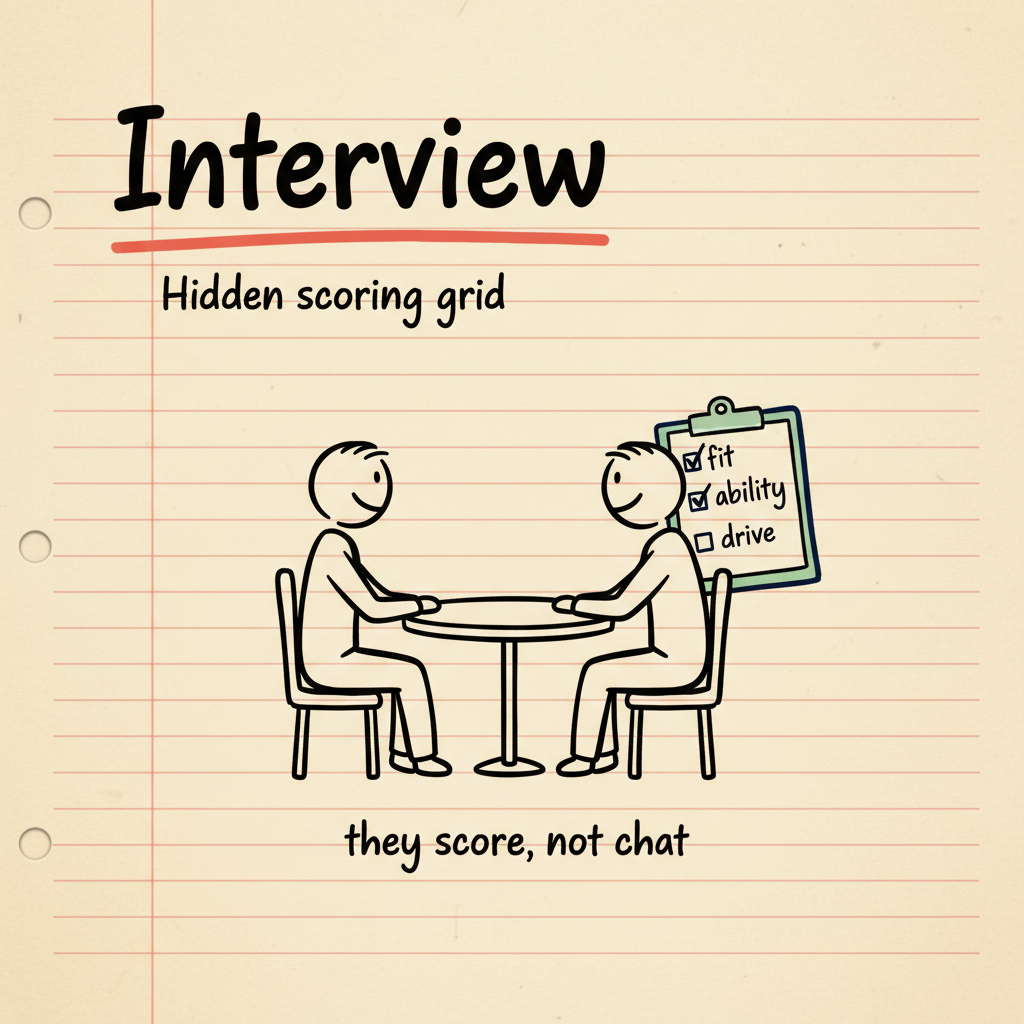
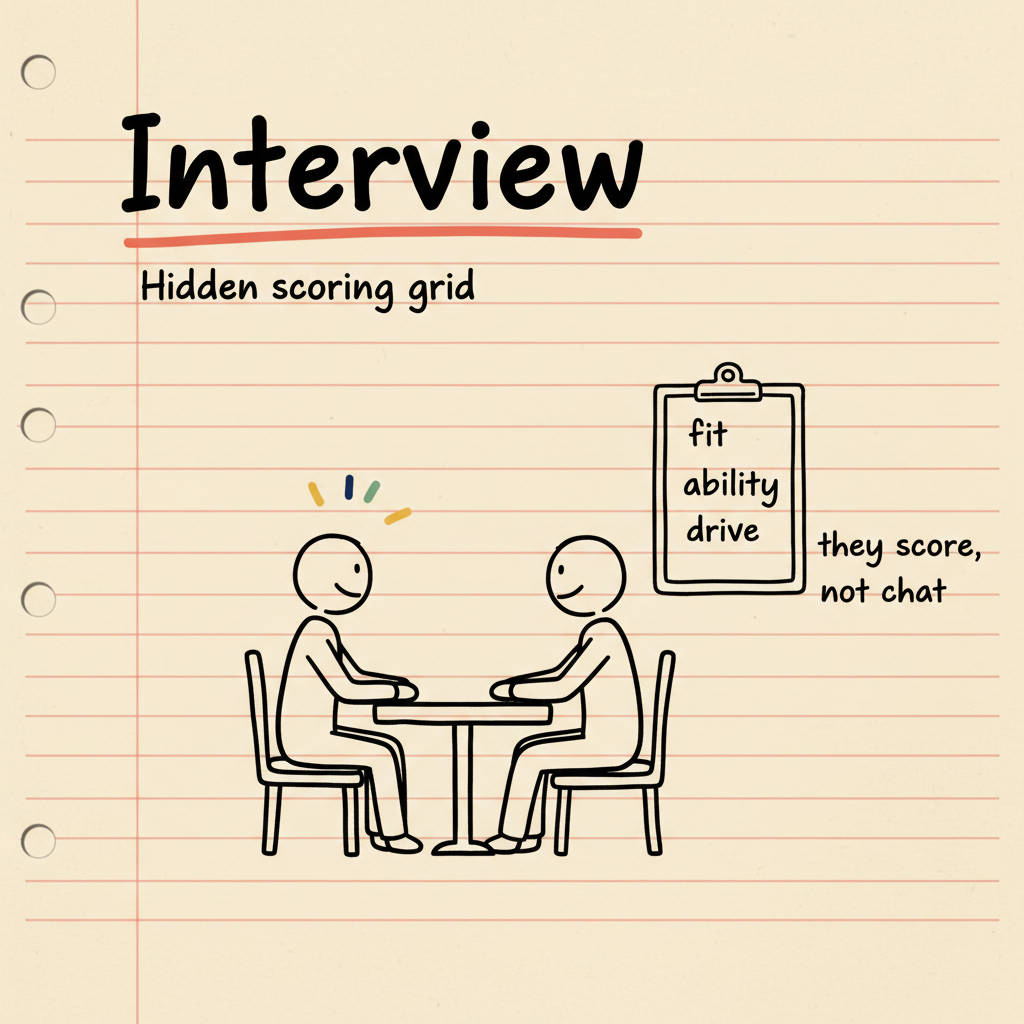
fix(thumbnails): スペル崩し致命 5 枚を再生成
docs/THUMBNAIL_AUDIT.md で高優先と判定された致命的スペル崩しを修正。

- lesson-41: atack person → attack the person (論理的誤謬の典型例)
- lesson-600: recuriters → How HR scans a resume (短縮で安定化)
- lesson-701: meanngful → smart sets (短縮で安定化)
- lesson-736: SPIN funnel の S 抜け解消、SPIN を 1 単語として横書き
- lesson-630: clipboard の fit/ability/drive ラベル崩れ修正 (checkbox 廃止して plain word のみ)

ACRONYM_WHITELIST に SPIN/BANT/HR を追加。各 prompt で CRITICAL 指示と
spell 配列を強化し Gemini Nano Banana 出力を安定化。

diff --git a/src/listeningLessons.ts b/src/listeningLessons.ts
@@ -39,7 +39,6 @@ const whatIsListening: LessonData = {
       title: '「聴く」は受信ではなく構造化',
       content:
         '「聴く」を辞書的に定義すると「相手の発言を理解する」ですが、ビジネスの現場では一段踏み込む必要があります。\n\n**聴く = 相手の発言を意味のある単位に再構成すること**\n\nこの定義の重要ポイントは「再構成」です。相手の話は、感情・事実・憶測・希望・愚痴がランダムに混ざって出てきます。それをそのまま受け取っても、意思決定の役には立ちません。\n\n再構成の作業：\n1. 何が起きたか（事実）\n2. それをどう感じているか（感情）\n3. その出来事をどう意味づけているか（解釈）\n4. 本人は何を望んでいるか（要望・希望）\n\nこの 4 つに分けて整理することで、「相手が本当に困っていること」が見えてきます。\n\n誤解しやすい点：\n• ❌ 構造化リスニング = 冷たく機械的に聞く\n• ◯ 構造化リスニング = 相手を本当に理解するための聴き方\n\nむしろ受動的傾聴より深く相手を受け止めます。「分かってもらえた」という感覚は、相手が自分でも整理できていなかった話を、聴き手が構造的に返してくれたときに最も強く生まれます。',
-      visual: 'ThreePillarsDiagram',
     },
     {
       type: 'quiz',
@@ -58,7 +57,6 @@ const whatIsListening: LessonData = {
       title: 'なぜマネージャー・営業に必須か',
       content:
         '構造化リスニングは、特に次の 3 つの職種で成果に直結します。\n\n【1】マネージャー（1on1・面談）\n部下の「辞めたい」「評価が不満」「キャリアに悩んでいる」といった発言を、表面の言葉だけで受け取ると対処を誤ります。事実・感情・解釈に分解できれば、本当に介入すべきポイントが見えます。\n\n例：部下「もう辞めたいです」\n• 表面：退職希望\n• 解釈：「この職場では成長できない」と感じている\n• 真の要望：成長機会の提示（必ずしも退職したいわけではない）\n\n【2】営業（顧客ヒアリング）\n顧客の「価格が高い」「検討します」を額面通り受け取ると失注します。背景にある不安・優先順位・社内政治を引き出せて初めて提案が刺さります。\n\n例：顧客「価格が他社より高いんですよね」\n• 表面：価格不満\n• 解釈：「上司を説得する材料が足りない」\n• 真の要望：投資対効果を社内で説明できる資料\n\n【3】コンサル・支援職（クライアントワーク）\nクライアントの依頼を言葉通り実装すると「思っていたのと違う」になります。依頼の裏にある制約・組織事情を聴き取る力が、納品物の質を決めます。\n\n3 職種に共通するのは「相手の言葉と本音にギャップがある場面が日常」ということ。構造化リスニングは、このギャップを技術で埋める方法論です。',
-      visual: 'WhereWhyHowDiagram',
     },
     {
       type: 'quiz',
@@ -87,7 +85,6 @@ const factEmotionInterpretation: LessonData = {
       title: '相手の発言は 3 層に混ざっている',
       content:
         '構造化リスニングの中核技術が **3 層分解** です。相手の発言は次の 3 つが混ざって出てきます。\n\n【1】事実（Fact）\n客観的に起きたこと。第三者でも同じように観測できる出来事。\n例：「先週の会議でAさんに自分の提案を否定された」\n\n【2】感情（Emotion）\n本人の中に湧き起こった気持ち。本人にしか分からない内面。\n例：「悔しかった」「悲しかった」「腹が立った」\n\n【3】解釈（Interpretation）\n出来事に対して本人がつけた意味づけ。「なぜそうなったか」の推測。\n例：「Aさんは私を軽く見ている」「自分は評価されていない」\n\n問題は、これらが日常会話では **ごちゃ混ぜで一気に出てくる** ことです。\n\n部下「先週、A さんに提案を否定されて、ほんと悔しかったんですよ。あの人、僕のこと軽く見てるんですよね」\n→ 事実（提案否定）＋ 感情（悔しい）＋ 解釈（軽く見られている）が一文に同居\n\n聴き手が分解せずに反応すると、解釈（軽く見られている）に対して「そんなことないよ」と否定してしまい、相手は「分かってもらえない」と感じます。\n\n分解できれば「事実は受け止め、感情に共感し、解釈は検証する」という適切な対応が選べます。',
-      visual: 'ThreePillarsDiagram',
     },
     {
       type: 'quiz',
@@ -106,7 +103,6 @@ const factEmotionInterpretation: LessonData = {
       title: '分解の手順 — メモを書き分ける',
       content:
         '会話の中で 3 層分解をリアルタイムにやるには訓練が必要です。慣れるまでは、メモを 3 列に分けるのが効果的です。\n\n【手順】\n1. ノートを縦に 3 分割し「事実 / 感情 / 解釈」と見出しを書く\n2. 相手の発言を聴きながら、該当する列にキーワードだけ書く\n3. 一通り聴き終わったら、各列を眺めて全体像を把握する\n\n例：1on1 で部下が話したこと\n\n事実：\n• 先月の評価が B だった\n• 同期の C さんは A だった\n• 自分は残業も多かった\n\n感情：\n• 悔しい\n• 不公平に感じる\n• モチベーション低下\n\n解釈：\n• 上司は自分を見ていない\n• 評価制度がおかしい\n• 自分はこの会社では伸びない\n\n分解後の気づき：\n• 事実は 3 つしかない（しかも全部本人視点）\n• 感情は十分に強い\n• 解釈が事実に対して飛躍している（評価 1 回で「この会社では伸びない」は飛躍）\n\nここまで見えれば、「事実を増やす（評価基準を確認）」「解釈を検証する（本当に見られていない？）」など具体的な対応が選べます。',
-      visual: 'AbstractionLadderDiagram',
     },
     {
       type: 'quiz',
@@ -125,7 +121,6 @@ const factEmotionInterpretation: LessonData = {
       title: '対応の使い分け — 各層に何を返すか',
       content:
         '分解できたら、層ごとに **返し方を変える** のが構造化リスニングの真価です。\n\n【事実】には → 確認と受け止め\n• 「先月の評価は B だったんですね」\n• 「同期は A だったと」\n→ 事実を復唱して、認識の食い違いを潰す\n→ 否定も同意もしない、ただ受け止める\n\n【感情】には → 共感と受容\n• 「それは悔しいですよね」\n• 「不公平に感じるのは自然な反応だと思います」\n→ 感情には反論しない、評価もしない\n→ 「感じてもいい」と認める\n\n【解釈】には → 検証と問い直し\n• 「『上司は自分を見ていない』というのは、何から感じましたか？」\n• 「『この会社では伸びない』と感じたのは、他にも根拠がありますか？」\n→ 否定せず、根拠を一緒に確認する\n→ 解釈は飛躍しがちなので、最も慎重に扱う\n\n**よくある失敗：3 層を取り違えた対応**\n\n❌ 事実に共感する：「B 評価は本当につらいですよね」\n→ 事実そのものを否定的に強化してしまう\n\n❌ 感情を検証する：「本当に悔しいんですか？」\n→ 感情を否定された、と感じさせる\n\n❌ 解釈に共感する：「そうそう、あの上司は見てないですよね」\n→ 飛躍した解釈を固定化させ、相手の認知を狭める\n\n層を見極めて、適切な返し方を選ぶ。これが構造化リスニングのコア技術です。',
-      visual: 'Two2MatrixDiagram',
     },
     {
       type: 'quiz',
@@ -154,7 +149,6 @@ const summaryAndParaphrase: LessonData = {
       title: '要約 = 「聴いた」の証明',
       content:
         '相手に「ちゃんと聴いてもらえた」と感じてもらう最強の技術が **要約** です。\n\n要約とは、相手の発言の要点を自分の言葉に圧縮して返すこと。「うなずく」「あいづちを打つ」は聴いているサインに過ぎませんが、要約は「実際に理解した内容」を提示します。これが信頼の決定打になります。\n\n要約の構造：\n「つまり、◯◯ということで合っていますか？」\n\n要約に入れる要素（優先順位順）：\n1. 中心的な事実（一番大事な出来事）\n2. その人の感情（強い気持ち）\n3. 本人の解釈や懸念（飛躍があれば慎重に）\n\n例：\n部下が 5 分間話した内容\n→「先月の評価が B で、同期の A と差がついて、自分の頑張りが見られていないと感じている。これからの成長機会も不安に思っている、ということで合っていますか？」\n\nこの一文を返すだけで、相手は次の 3 つを同時に感じます：\n• 自分の話を整理してもらえた（認知の負荷が下がる）\n• 聴き手が本気で理解しようとしている（信頼）\n• 言いたかったことが言語化された（カタルシス）\n\n要約の精度が高いほど、相手は本音を話してくれます。「ここまで分かってくれているなら、もっと話していい」と感じるからです。',
-      visual: 'PyramidDiagram',
     },
     {
       type: 'quiz',
@@ -192,7 +186,6 @@ const summaryAndParaphrase: LessonData = {
       title: '誤要約は信頼を失う — 3 つの落とし穴',
       content:
         '要約・パラフレーズは強力ですが、ミスると一気に信頼を失います。よくある失敗パターン 3 つを押さえます。\n\n【落とし穴 1】要約に自分の評価を混ぜる\n相手「最近、子育てと仕事の両立がきつくて」\n❌「つまり、もう少し計画的に動けばよかったということですね」\n→ アドバイスや評価が要約に紛れ込んでいる\n◯「子育てと仕事の両立で、余裕がない状態が続いている、ということですね」\n→ 評価を入れず事実と感情だけ要約\n\n【落とし穴 2】要約で話の方向を誘導する\n相手「新しい部署、人間関係に不安があって」\n❌「つまり、転職を考えているということですね」\n→ 聴き手が結論を勝手に飛躍\n◯「異動後の人間関係に不安を感じている、と」\n→ 相手が話したところまでで止める\n\n【落とし穴 3】「分かる分かる」で要約代わりにする\n❌「分かります、分かります、本当大変ですよね」\n→ 一見共感的だが、何が分かったのか不明\n→ 相手は「実は何も理解してない」と気づく\n◯「営業数字のプレッシャーと、チームへの責任の二重圧で消耗している、ということですね」\n→ 具体的に何を理解したかを示す\n\n要約・パラフレーズが効くのは「あなたの話を、私はこう理解しました」と **検証可能な形で提示する** からです。曖昧な共感や自分の意見の混入はすべて NG です。\n\n上手くなるコツ：\n• 要約は相手の言葉の 30% 以下に圧縮する\n• 「ということで合っていますか？」を必ず付ける\n• 間違っていたら訂正してもらう（むしろ訂正されるほうが理解が深まる）',
-      visual: 'GoodBadSlideDiagram',
     },
     {
       type: 'quiz',
@@ -259,7 +252,6 @@ const questionTypes: LessonData = {
       title: 'やってはいけない質問 — 4 つのアンチパターン',
       content:
         '質問は聴く力の主武器ですが、間違った質問は信頼を一発で壊します。アンチパターン 4 つを覚えましょう。\n\n【NG 1】尋問質問\n「いつ？」「誰が？」「で、どうしたの？」「それで？」\n→ 閉じた事実質問の連続。相手は問い詰められている感覚になる\n→ 改善：オープン質問を 1 つ挟む「そのとき、どう感じたか聞かせてもらえますか？」\n\n【NG 2】誘導質問\n「それって上司の問題ですよね？」「やっぱり辞めたほうがいいんじゃない？」\n→ 答えを誘導している。相手は本音を言いにくくなる\n→ 改善：「あなたから見て、原因はどこにありそうですか？」と中立に問う\n\n【NG 3】評価質問\n「なぜそんなことしたんですか？」「どうしてもっと早く言わなかったの？」\n→ 「なぜ」の使い方によっては責めに聞こえる\n→ 改善：「何があってそういう判断になったか、聞かせてもらえますか？」と背景を聴く形に\n\n【NG 4】二重質問\n「面談どうだった、あと、評価は出た？」\n→ 2 つ以上聞くと相手は答えやすい方だけ答え、もう片方が抜ける\n→ 改善：1 質問 1 トピックに分ける\n\n特に注意：「なぜ？」の使い方\n\n「なぜ？」は便利ですが、人に向けると **責めるニュアンス** を持ちます。\n• ❌「なぜそうしたんですか？」→ 詰問に聞こえる\n• ◯「何があってそうしようと思ったんですか？」→ 同じ意図だが柔らかい\n\nコンサルやマネージャーは「なぜ？」を物事の構造に向け、人の行動には「何があって？」を使う癖をつけると、相手が防衛的にならずに済みます。',
-      visual: 'GoodBadSlideDiagram',
     },
     {
       type: 'quiz',
@@ -288,7 +280,6 @@ const silenceDesign: LessonData = {
       title: '沈黙は「次の質問」の場所',
       content:
         '構造化リスニングの中級者と上級者を分けるのが **沈黙の扱い** です。\n\n会話で 3 秒以上の沈黙が生まれると、多くの人が居心地悪さを感じて次の質問や話題を投げてしまいます。これが致命的なミスです。\n\n沈黙が生まれているとき、相手の中では次のことが起きています：\n• 自分の感情を言語化しようとしている\n• 何を話していいか考えている\n• まだ整理できていない本音に近づいている\n• 過去の出来事を思い出している\n\nつまり **沈黙 = 思考が動いている時間** です。聴き手が口を挟むと、その思考は中断されます。\n\n沈黙を恐れる聴き手がやりがちな失敗：\n• 沈黙 2 秒で次の質問を畳みかける\n• 「あ、それで言うと…」と自分の話を始める\n• 「分かります、私も…」と共感の体で話題を奪う\n• 沈黙を埋めるためにアドバイスを始める\n\nどれも、相手の思考プロセスを潰します。\n\n基本ルール：**質問を投げた後、最低 5 秒は黙る**。\n\n5 秒は聴き手にとって長く感じますが、話し手にとっては「考える時間ができた」というありがたい時間です。沈黙が 10 秒、20 秒続いても焦らない。沈黙の後に出てくる言葉が、その会話で最も価値のある言葉になることが多いです。',
-      visual: 'FeedbackLoopDiagram',
     },
     {
       type: 'quiz',
@@ -307,7 +298,6 @@ const silenceDesign: LessonData = {
       title: '沈黙の 4 種類を見分ける',
       content:
         'すべての沈黙が同じではありません。4 種類を見分けると、適切に扱えます。\n\n【1】思考中の沈黙\n• サイン：視線が遠くを見ている、眉が寄っている、口が少し動いている\n• 中身：言葉を探している、感情を言語化しようとしている\n• 対応：**待つ**（5-30 秒）。割り込まない\n\n【2】感情処理の沈黙\n• サイン：目が潤む、視線が下を向く、肩が落ちる、深呼吸\n• 中身：強い感情が湧いている、涙をこらえている\n• 対応：**さらに長く待つ**。可能なら飲み物を勧める、視線を外す配慮も\n• NG：「大丈夫ですか？」と即座に声をかける → 感情処理を中断させる\n\n【3】回答拒否の沈黙\n• サイン：視線を逸らす、腕を組む、姿勢が後ろに引く\n• 中身：答えたくない、話したくない領域に踏み込まれた\n• 対応：質問を引く。「答えづらかったら大丈夫です」「別の話に移りますか」\n• 重要：その質問は **今は** 不適切だったというサイン\n\n【4】期待の沈黙\n• サイン：聴き手をじっと見ている、目を見開いて待っている\n• 中身：自分が話す番ではない、聴き手の反応を待っている\n• 対応：**こちらが話す番**。要約・パラフレーズ・次の質問を投げる\n\n4 種類のうち、1 / 2 を 3 / 4 と取り違えるのが最大のミスです。\n\nたとえば「思考中」を「回答拒否」と誤読して「答えづらかったら大丈夫です」と言うと、相手は「考えていただけなのに」と感じて思考が止まります。\n\n見分けは表情・姿勢・視線をよく観察すること。慣れるまでは「迷ったら待つ」が基本でよいです。沈黙を恐れない聴き手が、結局は一番深い話を引き出します。',
-      visual: 'Two2MatrixDiagram',
     },
     {
       type: 'quiz',
@@ -326,7 +316,6 @@ const silenceDesign: LessonData = {
       title: '沈黙を作る側 — 自分が話しすぎないコツ',
       content:
         '沈黙を扱う前に、そもそも **自分が話しすぎていないか** を点検する必要があります。\n\n良い 1on1 や顧客ヒアリングの話量比は **聴き手 30% / 話し手 70%** が目安です。聴き手が半分以上話していたら、もはやヒアリングではありません。\n\n自分が話しすぎる典型パターン：\n\n【1】共感の言い換えループ\n相手「最近きついんです」\n自分「そうですよね、最近きついですよね、本当に大変な時期ですよね…」\n→ 同じことを言い換えて時間を埋めている\n\n【2】先回りアドバイス\n相手「子育てと両立が…」\n自分「あ、それなら時短勤務の制度があって、◯◯さんも使っていて…」\n→ 相手がまだ話し切ってないのにアドバイス開始\n\n【3】自分の体験談に乗っ取られる\n相手「営業数字がきつくて」\n自分「分かります、僕も若い頃はそうで、ある日上司に言われたのが…」\n→ 5 分後、自分の話になっている\n\n【4】沈黙を埋めるための雑談\n沈黙が 5 秒生まれると「あ、そういえば天気が…」と話題転換\n→ 相手の思考時間を奪っている\n\n対策：\n• 質問を投げたら、心の中で「5 秒数える」\n• 相手の発言が終わったように見えても、「もう少し」と待つ\n• 自分の経験談は、聞かれてから話す\n• アドバイスは、相手が要望を出してから\n\n良い聴き手は「話す量より、待つ量のほうが多い」。沈黙をデザインできるかどうかが、聴く力の最終試験です。',
-      visual: 'AbstractionLadderDiagram',
     },
     {
       type: 'quiz',
@@ -355,7 +344,6 @@ const oneOnOneApplication: LessonData = {
       title: '1on1 の目的を整理する',
       content:
         '1on1 は「マネージャーと部下の定期的な 1 対 1 面談」ですが、目的が曖昧なまま運用されると、ただの近況報告か業務進捗確認に堕します。\n\n構造化リスニングの観点から、1on1 の目的を 3 つに整理します。\n\n【1】事実の共有（業務進捗・課題）\n• 何が起きているか、何で困っているか\n• 通常の業務会議でも扱える層\n• 1on1 全体の 20-30%\n\n【2】感情と状態の把握\n• 部下が今どう感じているか、何に消耗しているか\n• 業務会議では扱えない、1on1 でしか聴けない層\n• 1on1 全体の 30-40%\n\n【3】成長と価値観の対話\n• 部下が何を目指したいか、何を大事にしているか\n• 中長期の話、信頼が積み上がってから踏み込む層\n• 1on1 全体の 30-40%\n\nダメな 1on1 の典型：\n• 業務進捗確認だけで終わる（層 1 のみ） → ミーティングと同じ\n• マネージャーが 80% 話している → 育成ではなく説教\n• 「最近どう？」「特にないです」で終わる → 質問の階層が浅い\n• 解決策アドバイスで全部潰す → 部下が考える機会を奪う\n\n良い 1on1 の指標：\n• 部下が **新しい気づきを得て** 帰る（「あ、自分はそう思っていたんだ」）\n• マネージャーが **新しい情報を得て** 帰る（業務会議では出ない情報）\n• 次の 1on1 が **楽しみ** になる（安全な対話の場と感じる）\n\nこの 3 つを実現する技術が、730-734 で学んだ構造化リスニング全般です。',
-      visual: 'WhereWhyHowDiagram',
     },
     {
       type: 'quiz',
@@ -374,7 +362,6 @@ const oneOnOneApplication: LessonData = {
       title: '30 分 1on1 のテンプレ — 階層を上る設計',
       content:
         '30 分の 1on1 を構造化リスニングで設計するなら、次の流れを推奨します。\n\n【0-5 分】チェックイン（階層 1-2: 事実）\n• 「最近、業務面でどうですか？」\n• 「先週の◯◯案件、その後どうなりました？」\n• 業務状況を広く聴く。事実中心、感情には深入りしない\n\n【5-15 分】掘り下げ（階層 3-4: 感情と解釈）\n• チェックインで気になった点を 1-2 個ピックアップ\n• 「さっき◯◯がきついと言っていましたが、もう少し聞かせてもらえますか？」\n• 開かれた感情質問を投げる\n• ここで 3 層分解（事実・感情・解釈）をリアルタイムにやる\n• パラフレーズで返す：「つまり〜と感じている、ということですね」\n\n【15-25 分】要望と価値観（階層 5: 本人が望むもの）\n• 「本当は、どうなったらいいと思いますか？」\n• 「あなたにとって、今大事にしたいのは何ですか？」\n• 価値観・キャリア・人生観に近い層に踏み込む\n• ここまで来ると、マネージャー側の意思決定材料も得られる\n\n【25-30 分】要約と次のアクション\n• 「今日話したのは大きく〜と〜ですね」\n• 「次までに、◯◯について試してみる、で合ってますか？」\n• 部下の言葉を要約 + 次回までの小さな実験を 1 つ決める\n• マネージャーが宿題を出すのではなく、部下が選ぶ\n\nこのテンプレの肝は「順番」です。\n• 階層を飛ばさない（いきなり価値観質問は重い）\n• 戻ってもよい（階層 4 で詰まったら 3 に戻る）\n• 要約は必ず最後にする（部下の頭の中を整理する効果）\n\n「とりあえず雑談から始めて、流れで」は避けるべき。30 分という限られた時間で深いところに届くには、**意図的な設計** が必要です。',
-      visual: 'PyramidDiagram',
     },
     {
       type: 'quiz',
@@ -393,7 +380,6 @@ const oneOnOneApplication: LessonData = {
       title: 'よくある 1on1 の失敗ケース 3 つ',
       content:
         '構造化リスニングが効かない 1on1 の典型例を 3 つ。それぞれ何が悪く、どう直すか。\n\n【ケース 1】業務確認だけで終わる 1on1\n部下「先週、A 案件と B 案件を進めて、A は完了、B は来週納品予定です」\nマネージャー「OK、B の納期大丈夫そう？」\n部下「はい、問題ないです」\nマネージャー「他に困ってることある？」\n部下「特にないです」\n→ 30 分で終わる、近況報告ミーティング\n\n何が悪い：階層 1（事実）だけで終わっている。「特にない」を真に受けて深掘りしていない。\n\nどう直す：\n• 「『特にない』というのは、業務面で？それとも全体的に？」\n• 「最近、消耗してるなと感じる瞬間ってありますか？」\n• 階層 3（感情）に降りる開かれた質問を投げる\n\n【ケース 2】解決策アドバイスで全部潰す\n部下「最近、子育てと仕事の両立がしんどくて」\nマネージャー「あ、それなら時短制度を使う手があるよ。あと、◯◯さんも子育て中だから相談してみたら。それと有給も使えるし…」\n→ 部下は「相談したかっただけなのに、また課題リストが増えた」と感じる\n\n何が悪い：話を聴き切る前にアドバイス開始。3 層分解（事実 / 感情 / 解釈）を飛ばしている。\n\nどう直す：\n• まず「もう少し聞かせてください、具体的にどんな場面でしんどいですか？」（事実）\n• 「そのとき、どんな気持ちですか？」（感情）\n• アドバイスは部下から要望されてから\n\n【ケース 3】「で、どうしたいの？」の押し付け\nマネージャー「で、結局どうしたいの？転職するの、しないの？」\n部下「いや、まだ整理がついてなくて…」\nマネージャー「整理がつかないと話進まないでしょ、考えてきてよ」\n→ 部下は二度と本音を言わなくなる\n\n何が悪い：階層 4（解釈）でもがいている部下に、階層 5（決断）を強要している。\n\nどう直す：\n• 「整理がついてないのが今の正直なところですよね、それを一緒に整理しましょう」\n• 「迷いがある部分は、具体的にどのあたりですか？」\n• 決断を急がず、考える土台を作る\n\n1on1 は **答えを出す場ではなく、考えを深める場** です。構造化リスニングはその場を成立させる技術です。',
-      visual: 'GoodBadSlideDiagram',
     },
     {
       type: 'quiz',
@@ -422,7 +408,6 @@ const salesHearingApplication: LessonData = {
       title: '営業ヒアリング = 顧客の意思決定構造の解読',
       content:
         '営業のヒアリングは、構造化リスニングの最も実利的な応用領域です。\n\n受動的傾聴な営業の典型：\n• 顧客「価格が高いんですよね」\n• 営業「では、こちらの安いプランをご紹介します」\n• 結果：失注、または値引き合戦に巻き込まれる\n\n構造化リスニングを使う営業：\n• 顧客「価格が高いんですよね」（表面）\n• 営業「『高い』というのは、何と比べてそうお感じですか？」（事実への引き戻し）\n• 顧客「他社の見積もりが 7 割の価格で…」（事実が出る）\n• 営業「ご比較対象は◯◯社さんですか？」（事実の確認）\n• 顧客「いえ、社内予算が 200 万円までと決まっていて、御社の 280 万円だと稟議が通らないんです」（本音）\n→ ここで初めて「予算上限」「稟議プロセス」という意思決定構造が見える\n\nこのケースで、構造化リスニングを使わなければ「他社が安い」と誤解したまま値引き提案をして失注したでしょう。本当の課題は「稟議が通る金額に収まること」または「稟議を通すための材料」で、対処は値引きとは限りません。\n\n営業ヒアリングで聴くべき **5 つの構造**：\n\n【1】事実：何が問題で困っているか（現状）\n【2】感情：何にイライラ・不安を感じているか\n【3】解釈：その問題の原因をどう見ているか（仮説）\n【4】要望：理想状態は何か\n【5】意思決定構造：誰が・いつ・どうやって決めるか（予算・稟議・関係者）\n\n特に【5】は営業特有で、聴き出せないと提案が刺さりません。',
-      visual: 'ScrStructureDiagram',
     },
     {
       type: 'quiz',
@@ -441,7 +426,6 @@ const salesHearingApplication: LessonData = {
       title: '本音を引き出す質問の型 — SPIN を構造化',
       content:
         '営業ヒアリングで世界的に使われる質問フレームに **SPIN** があります（Neil Rackham『SPIN 営業術』）。これを構造化リスニングと組み合わせると強力です。\n\n【S】Situation（状況質問）\n顧客の現状を確認する事実質問\n• 「今、◯◯業務はどんな体制で進められていますか？」\n• 「使われているツール・システムは何ですか？」\n→ 階層 1-2（事実）に対応。最小限に。聞きすぎると尋問。\n\n【P】Problem（問題質問）\n顧客が抱える困りごとを引き出す\n• 「その体制で、不便を感じている場面はありますか？」\n• 「うまくいっていない点は何ですか？」\n→ 階層 3（感情）への入口。「不便」「困る」「ストレス」がキーワード。\n\n【I】Implication（示唆質問）\n問題の影響を顧客自身に言語化させる\n• 「その不便が続くと、ビジネス全体にどんな影響がありますか？」\n• 「今のままだと、◯◯さんの業務時間はどれくらい奪われていますか？」\n→ 階層 4（解釈）。**問題のインパクトを顧客自身に発見させる**\n\n【N】Need-Payoff（解決質問）\n解決後の理想状態を語らせる\n• 「もしこの問題が解決したら、何がどう変わりますか？」\n• 「◯◯さんのチームの働き方は、どう改善されますか？」\n→ 階層 5（要望）。**顧客自身が「買う理由」を口にする**\n\nSPIN の重要原則：\n\n• 営業の典型ミス：S と P だけで終わり、即 P → 提案に飛ぶ\n• 一流の営業：I と N に時間をかけ、**顧客自身がペインを言語化する** よう導く\n\n人は「自分が言った言葉」には反論できません。営業側が「この製品はこれだけ素晴らしいです」と言うより、顧客が「この問題、月 100 時間損失していますね」と自分で言うほうが、何倍も成約に近づきます。\n\n構造化リスニングは、SPIN の I と N を機能させる土台技術です。',
-      visual: 'PyramidDiagram',
     },
     {
       type: 'quiz',
@@ -460,7 +444,6 @@ const salesHearingApplication: LessonData = {
       title: '意思決定構造を聴き出す — BANT に踏み込む',
       content:
         '営業ヒアリングの最後の関門が **意思決定構造** です。これが見えないと、本音を聴き出せても「で、誰が決めるの？」が分からず提案が刺さりません。\n\n世界標準の枠組みが **BANT** です（IBM 発祥）。\n\n【B】Budget（予算）\n• 「ご予算の目安は決まっていますか？」\n• 「他社さんとの比較で、予算上限はどのあたりに置かれていますか？」\n• 直接聞きにくい場合：「同じカテゴリのソリューションだと、年間 100-500 万円幅がありますが、どの辺りでお考えですか？」\n\n【A】Authority（決裁権）\n• 「最終的に意思決定されるのはどなたですか？」\n• 「◯◯さんのご判断で進められますか？それとも上長の承認が必要ですか？」\n• 「稟議のフローを教えていただけますか？」\n\n【N】Need（必要性）\n• 「今期中に解決したい問題ですか？」\n• 「もしこれが解決しなかった場合、御社にとってどんな影響がありますか？」\n• → S P I N の Implication と接続\n\n【T】Timeframe（導入時期）\n• 「いつまでに導入したいとお考えですか？」\n• 「導入時期は、何で決まっていますか？（予算年度・期初・社内イベント）」\n\nBANT を聴き出す際の構造化リスニング的工夫：\n\n• **直接質問しすぎない** — いきなり「ご予算は？」は警戒される\n• **背景を聴く形で挟む** — 「他社さんを検討された理由を教えてください」（その中で予算観が出る）\n• **要約で確認** — 「ということは、年内導入で、予算 300 万、最終決裁は◯◯部長、ということで合っていますか？」\n• **沈黙を使う** — BANT の質問後、相手が考え込んだら待つ。本音が出てくる\n\n営業の達人は、商品の説明より BANT のヒアリングに時間をかけます。BANT が完全に見えれば、提案は「相手の意思決定プロセスに沿った最短ルート」で書けるからです。\n\n構造化リスニングは、相手の信頼を得ながら BANT を聴き出すための **唯一の上品な手段** です。',
-      visual: 'WhereWhyHowDiagram',
     },
     {
       type: 'quiz',

diff --git a/scripts/lessonPromptsV2.ts b/scripts/lessonPromptsV2.ts
@@ -59,7 +59,7 @@ export type LessonPromptEntry = {
  * rendered as Title Case. Add to this set whenever a new acronym appears.
  */
 const ACRONYM_WHITELIST = new Set([
-  'MECE', 'STAR', 'ATS', 'SPI', 'GAB', 'WFH', 'PTO', 'IMAGES', 'M&A',
+  'MECE', 'STAR', 'ATS', 'SPI', 'SPIN', 'BANT', 'GAB', 'WFH', 'PTO', 'HR', 'IMAGES', 'M&A',
   'EN', 'PRE-EMPT', 'JP', 'NOT', 'AND', 'OR', 'WHY', 'SO', 'AI', 'GDP',
   'ADHD',
   'A', 'B', 'C', 'D', 'P', 'Q', 'R', 'S', 'T',
@@ -219,10 +219,12 @@ export const LESSON_PROMPTS: LessonPromptEntry[] = [
     slug: 'lesson-41',
     title: 'LOGICAL FALLACIES',
     subtitle: 'Spot the broken arguments',
-    diagram: `a hand-drawn vertical list of four rows. Each of the top three rows starts with a coral red "X" mark on the left, then a short fallacy name in cursive marker: row 1 "X attack person", row 2 "X straw man", row 3 "X bad cause". The bottom (fourth) row starts with a green check "V" mark and the cursive label "good logic". All hand-drawn with thick marker.
+    diagram: `a hand-drawn vertical list of four rows. Each of the top three rows starts with a coral red "X" mark on the left, then a short fallacy name in cursive marker: row 1 "X attack the person", row 2 "X straw man", row 3 "X bad cause". The bottom (fourth) row starts with a green check "V" mark and the cursive label "good logic". All hand-drawn with thick marker. Use generous spacing between rows and clear letter separation in each phrase — every word in each row label must be drawn as a fully separated word with a clear blank space before and after, so no two words touch or merge.
 
-CRITICAL — the three fallacies (rows 1, 2, 3) MUST all have the red X mark (they are wrong). Only the bottom "good logic" row has the green check. Never put a green check next to a fallacy.`,
-    spell: ['LOGICAL FALLACIES', 'Spot the broken arguments', 'attack person', 'straw man', 'bad cause', 'good logic'],
+CRITICAL — the three fallacies (rows 1, 2, 3) MUST all have the red X mark (they are wrong). Only the bottom "good logic" row has the green check. Never put a green check next to a fallacy.
+
+CRITICAL — the row 1 label MUST be the four English words "attack the person" with these exact letters in order: a-t-t-a-c-k (double t in the middle), t-h-e, p-e-r-s-o-n. Do NOT shorten "attack" to "atack" or "atak". Double-check the double t before drawing.`,
+    spell: ['LOGICAL FALLACIES', 'Spot the broken arguments', 'attack', 'the', 'person', 'attack the person', 'straw man', 'bad cause', 'good logic'],
   },
   {
     slug: 'lesson-42',
@@ -492,11 +494,13 @@ CRITICAL — the title at top-left must be exactly the four English words: LINK 
   {
     slug: 'lesson-701',
     title: 'CHUNKING',
-    subtitle: 'Group items into meaningful sets',
+    subtitle: 'Group items into smart sets',
     diagram: `two horizontal rows centered on the page. Top row: nine small unlabeled circle tokens in a single straight line, evenly spaced, all drawn as plain marker circles with no numbers or letters inside. A single coral downward arrow centered between the two rows, with the cursive label "group" written next to the arrow. Bottom row: three larger rectangular boxes drawn side by side, each box enclosing three of the same plain circle tokens. Each rectangular box has a small cursive label "set" written directly underneath it. Hand-drawn with thick black marker.
 
-CRITICAL — do NOT write any numbers (no "3", no "4", no "330") inside the circles or boxes. The only handwritten text on the diagram itself is the word "group" near the arrow and the three labels "set" under the bottom rectangles.`,
-    spell: ['CHUNKING', 'Group items into meaningful sets', 'group', 'set'],
+CRITICAL — do NOT write any numbers (no "3", no "4", no "330") inside the circles or boxes. The only handwritten text on the diagram itself is the word "group" near the arrow and the three labels "set" under the bottom rectangles.
+
+CRITICAL — the subtitle MUST be the five English words "Group items into smart sets" with each word fully separated. Do NOT use the word "meaningful" or any other long word — keep every word 5 letters or fewer.`,
+    spell: ['CHUNKING', 'Group items into smart sets', 'Group', 'items', 'into', 'smart', 'sets', 'group', 'set'],
   },
   {
     slug: 'lesson-702',
@@ -703,8 +707,10 @@ CRITICAL — the three trap rows on the left must all have the red X mark. Only 
     slug: 'lesson-736',
     title: 'SALES LISTEN',
     subtitle: 'Find the real budget',
-    diagram: `a hand-drawn inverted funnel on cream notebook paper. Top wide opening labeled in cursive "what they say". Funnel narrows downward through three rings labeled "S P I N" (four small letters stacked vertically along the inside of the funnel). Bottom narrow tip drips into a small box labeled "BANT". Cursive annotation upper-right: "deeper layers".`,
-    spell: ['SALES LISTEN', 'Find the real budget', 'what they say', 'S', 'P', 'I', 'N', 'BANT', 'deeper layers'],
+    diagram: `a hand-drawn inverted funnel on cream notebook paper. The funnel has a wide opening at the top and a narrow tip at the bottom. Above the wide top opening: cursive label "what they say". Inside the wider upper section of the funnel, written as a single horizontal word in chunky marker block letters: "SPIN" (four uppercase letters S, P, I, N read left to right as one word, all the same size, no gaps or rings between them). Inside the narrow lower tip of the funnel, written as another single horizontal word in smaller block letters: "BANT" (four uppercase letters B, A, N, T as one word). A small coral arrow points from SPIN down to BANT to show the funnel direction. Cursive annotation upper-right: "deeper layers".
+
+CRITICAL — the word inside the upper funnel section MUST be exactly four uppercase letters in this order: S, then P, then I, then N — spelling "SPIN" as one solid word. Never drop the leading S. Never write "PIN" alone. The word inside the lower tip MUST be exactly four uppercase letters in this order: B, A, N, T — spelling "BANT" as one solid word. Both words read horizontally, NOT stacked vertically as separate letters.`,
+    spell: ['SALES LISTEN', 'Find the real budget', 'what they say', 'SPIN', 'BANT', 'deeper layers'],
   },
 
   // ── ADHD レバレッジ (adhd-leverage-01) ──────────────────────────

diff --git a/src/documentationLessons.ts b/src/documentationLessons.ts
@@ -124,7 +124,6 @@ const oneSlideOneMessage: LessonData = {
       title: '情報密度の上限を知る',
       content:
         '1 スライドに乗せる情報量には物理的な上限があります。\n\n目安：\n• 文字数：200〜400 字以内\n• Bullet 数：5 つまで（理想は 3 つ）\n• 図解要素：5〜7 個まで\n• 色の数：3 色まで（メイン / 強調 / グレー）\n• フォント種類：2 種まで\n\nこれを超えると、認知負荷理論の「外在的負荷」が急増し、読み手の理解が崩壊します。\n\n情報密度を下げる 3 つの戦術：\n\n【1】分割する\n1 スライドが詰まったら 2 枚に割る。スライド枚数を恐れない。\n\n【2】抽象化する\n12 個の事実を「3 つの傾向」に圧縮して見せる。\n\n【3】Appendix に逃がす\n本編は要点のみ、詳細はバックアップへ。質問されたら開く。\n\n「全部入れる」より「捨てる」のほうが資料力は高い。情報を引き算した結果、伝わる力が増す。これがプロの資料作りの逆説です。',
-      visual: 'MecePatternsDiagram',
     },
     {
       type: 'quiz',
@@ -258,7 +257,6 @@ const layoutAndSpace: LessonData = {
       title: '揃える・繰り返す',
       content:
         '美しいレイアウトの 2 大原則は「整列」と「反復」です。\n\n【整列】（Alignment）\n要素の縁を揃える。\n• 左揃え・中央揃え・右揃えを混在させない\n• 縦の見えないラインを意識する\n• 「なんとなく揃ってる」ではなく「ピクセル単位で揃える」\n\n揃っていない例：\n• 1 ページ目はタイトル左揃え、2 ページ目は中央揃え → バラバラ印象\n• 箇条書きの先頭が微妙にズレている → 雑に見える\n\n【反復】（Repetition）\n同じパターンを繰り返す。\n• タイトルの位置・サイズ・色をスライド間で統一\n• 「キーメッセージは青、補足はグレー」のルールを全スライドで守る\n• ロゴ・ページ番号・色使いの一貫性\n\n反復によって「この資料は◯◯のパターンで作られている」という認知が定着し、読み手は構造を理解する負荷から解放されます。\n\n「整列」と「反復」が崩れると、内容が良くても「雑な資料」と評価されます。逆にこの 2 つを徹底するだけで、内容が同じでも「プロの資料」に見えます。',
-      visual: 'MeceVennDiagram',
     },
     {
       type: 'quiz',
@@ -325,7 +323,6 @@ const typography: LessonData = {
       title: 'コントラストと行間',
       content:
         '可読性を左右する隠れた要素が「コントラスト」と「行間」です。\n\n【コントラスト】\n文字色と背景色の明度差。WCAG（アクセシビリティ基準）では：\n• 通常文字：コントラスト比 4.5:1 以上\n• 大きい文字（18pt 以上）：3:1 以上\n\nやりがちな失敗：\n• 薄いグレーの本文（#999 など）→ プロジェクター投影で消える\n• 写真の上に直接白文字 → 写真の明るい部分で読めない\n• ブランドカラーの淡いトーンを本文に →「おしゃれだけど読めない」\n\n対策：\n• 本文は #000 〜 #333 のしっかり濃い色\n• 背景が写真なら半透明の黒オーバーレイを敷く\n• ブランドカラーは「見出し」「強調」だけに限定\n\n【行間】\n• 推奨：フォントサイズの 1.5〜1.7 倍\n• 18pt の本文なら 27〜30pt の行間\n\n行間が狭いと「圧迫感」、広すぎると「散漫」。1.5〜1.7 倍が最も読みやすいゾーンです。\n\n字間（カーニング）も重要：\n• 日本語：0〜+50 程度\n• 大文字英数字：+100 程度（ロゴや見出しで広めに）\n\nこの 2 つを整えるだけで、同じ文章でも「読みやすさ」が体感で 2 倍違います。',
-      visual: 'Two2MatrixDiagram',
     },
     {
       type: 'quiz',
@@ -392,7 +389,6 @@ const colorPalette: LessonData = {
       title: 'カラーユニバーサルデザイン',
       content:
         '日本人男性の約 5%、女性の約 0.2% は色覚特性を持っています。世界全体でも数億人規模です。\n\n色だけで情報を伝えない（カラーユニバーサルデザイン）：\n\n【危険な組み合わせ】\n• 赤と緑（最も区別が困難な代表ペア）\n• 茶色と緑\n• オレンジと黄緑\n• 水色とピンク\n\n【対策】\n\n① 色 + 形 / 記号で示す\n• グラフの線を「色だけ」で区別せず、実線/破線/点線も併用\n• ◯ ✗ などの記号を併記\n\n② 明度差をつける\n• 同じ赤と緑でも明度差を大きくすれば区別可能\n• 彩度より明度の差を意識\n\n③ ラベルを直接付ける\n• 凡例で「赤=売上」より、グラフの線の隣に直接「売上」と書く\n• 視線往復が減り、色覚特性に関わらず全員が分かる\n\n④ アクセシビリティチェックツール\n• Color Oracle / Stark などで色覚特性シミュレーション\n• 印刷前 / 公開前にチェックする習慣\n\n配色の上手さは「美しさ」よりも「全員に伝わるか」で測ります。',
-      visual: 'MecePatternsDiagram',
     },
     {
       type: 'quiz',

diff --git a/scripts/careerPromptsV2.ts b/scripts/careerPromptsV2.ts
@@ -115,9 +115,11 @@ export const CAREER_LESSON_PROMPTS: LessonPromptEntry[] = [
   {
     slug: 'lesson-600',
     title: '6 SECONDS',
-    subtitle: 'How recruiters scan a resume',
-    diagram: `a hand-drawn rectangular resume document in the center. Above it: a small stopwatch showing "6 sec" in cursive. To the left of the resume: three horizontal filter bars labeled "skim", "match", "deep" stacked vertically. Cursive annotation: "pass each gate".`,
-    spell: ['6 SECONDS', 'How recruiters scan a resume', '6 sec', 'skim', 'match', 'deep', 'pass each gate'],
+    subtitle: 'How HR scans a resume',
+    diagram: `a hand-drawn rectangular resume document in the center. Above it: a small stopwatch showing "6 sec" in cursive. To the left of the resume: three horizontal filter bars labeled "skim", "match", "deep" stacked vertically. Cursive annotation: "pass each gate".
+
+CRITICAL — the subtitle MUST be the five English words "How HR scans a resume" with each word fully separated. Do NOT use the word "recruiters" — it is replaced by the two letters "HR".`,
+    spell: ['6 SECONDS', 'How HR scans a resume', 'HR', 'scans', 'resume', '6 sec', 'skim', 'match', 'deep', 'pass each gate'],
   },
   {
     slug: 'lesson-601',
@@ -262,7 +264,9 @@ export const CAREER_LESSON_PROMPTS: LessonPromptEntry[] = [
     slug: 'lesson-630',
     title: 'INTERVIEW',
     subtitle: 'Hidden scoring grid',
-    diagram: `two hand-drawn simple stick figures facing each other across a small table. Behind the right figure: a hidden clipboard with three checkbox lines labeled in cursive "fit", "ability", "drive". The left figure does not see the clipboard. Cursive annotation: "they score, not chat".`,
+    diagram: `two hand-drawn simple stick figures facing each other across a small table. Behind the right figure: a hidden clipboard standing upright, large enough to show three clear text rows. The clipboard contains three short cursive words stacked vertically in a vertical list, each word on its own line with generous blank vertical space between lines so the rows never touch or merge. Each line shows ONLY the word itself — no leading bullet, no leading checkbox, no leading symbol, no leading dash, no leading letters. Top line word: "fit". Middle line word: "ability". Bottom line word: "drive". The left figure does not see the clipboard. Cursive annotation to the right of the clipboard: "they score, not chat".
+
+CRITICAL — the clipboard MUST show exactly three plain words with NO checkboxes, NO bullets, NO ampersands, NO leading characters of any kind. Each line is just one clean cursive word and nothing else: line 1 is the three letters f-i-t and nothing more, line 2 is the seven letters a-b-i-l-i-t-y and nothing more, line 3 is the five letters d-r-i-v-e and nothing more. Do NOT prepend "&", "ad", "ft", "fft", or any other characters to any word. Each word stands totally alone on its line.`,
     spell: ['INTERVIEW', 'Hidden scoring grid', 'fit', 'ability', 'drive', 'they score, not chat'],
   },
   {

diff --git a/src/clientWorkLessons.ts b/src/clientWorkLessons.ts
@@ -229,7 +229,6 @@ const clientLesson93: LessonData = {
       type: 'explain',
       title: '因果関係と並列関係を見分けましょう',
       content: '構造化で特に重要なのが「関係性の見極め」です。\n\n**並列関係（Aも・Bも・Cも同等に並ぶ）：**\n→「課題は①コスト増加、②売上減少、③人手不足」\n\n**因果関係（AがあるからBになる）：**\n→「人手不足（原因）→ 対応スピード低下（結果）→ 顧客離脱（結果）」\n\n**粒度をそろえる：**\n- NG：「課題は①コスト増加、②A部門の人員配置、③グローバル市場の変化」\n  （抽象度がバラバラ）\n- OK：「課題は①コスト構造、②人員配置、③市場環境」\n  （同じ抽象度で並べる）',
-      visual: 'MecePatternsDiagram',
     },
     {
       type: 'quiz',
@@ -433,7 +432,6 @@ const clientLesson97: LessonData = {
       type: 'explain',
       title: 'フィードバックを改善サイクルに落とし込みましょう',
       content: 'フィードバックを受けただけで終わりにしてしまうと、次に同じミスを繰り返してしまいます。\n\n**フィードバックを活かす4ステップ：**\n\n1. **記録する：** 言われた内容をメモに残す\n2. **パターンを見つける：** 同じ指摘が3回以上あればそれは自分の課題\n3. **原因を分析する：** なぜそのミスが起きたか（スキル？時間不足？認識のズレ？）\n4. **次回の行動を変える：** 具体的に何を変えるかを決める\n\n**よくある罠：** 「気をつけます」で終わる\n→ 「次回は提出前に〇〇をチェックする」という具体的なアクションに変換する',
-      visual: 'DesignThinkingCycleDiagram',
     },
     {
       type: 'quiz',

diff --git a/src/peakPerformanceLessons.ts b/src/peakPerformanceLessons.ts
@@ -148,7 +148,6 @@ const peakPerformanceLesson412: LessonData = {
       title: '最適投与量 — 週150分・中強度',
       content:
         'WHO・米国心臓協会のガイドラインは概ね一致しています。\n\n**有酸素運動：**\n- **週150分の中強度** または **週75分の高強度**\n- 中強度＝会話はできるが歌えない（早歩き、軽いジョギング、サイクリング）\n- 高強度＝会話が途切れがち（ランニング、HIIT）\n\n**筋トレ：**\n- **週2回以上、主要筋群を含む**（スクワット・プッシュアップなど自重で十分）\n\n**重要な発見：**\n- 効果は **20〜30分の単発でも出る**。「やらないよりは1回でも」が正しい\n- 1日10分×3回でもまとめて30分でも効果はほぼ同じ\n- 認知効果のピークは **運動後約1時間**。重要な仕事の前にやると吉\n\n**始めるなら：** 朝の早歩き20分から。これだけで多くの研究の最低ラインを満たします。',
-      visual: 'Two2MatrixDiagram',
       outro:
         '頻度（週○回）と強度（中／高）の 2 軸で見れば、自分の運動が最低ラインに届いているかが一目で分かります。「ジムに通う」ではなく「中強度を週 150 分積む」が目標。20 分の早歩きでも、その日の認知パフォーマンスに効きます。',
     },

diff --git a/src/criticalLessons.ts b/src/criticalLessons.ts
@@ -280,7 +280,6 @@ const criticalCorrelation: LessonData = {
       title: '因果推論の実践',
       content:
         '現実のビジネスで因果関係を確かめる主な手法：\n\nA/Bテスト（ランダム化比較実験）\n最も信頼性が高い方法。条件を1つだけ変えて、ランダムに分けたグループで比較する。\n例：ランディングページのAとBを50%ずつ表示して、コンバージョン率を比較。\n\n前後比較だけでは不十分\n「施策前後で売上が上がった」は証拠にならない。他の要因（季節・競合・経済）が変わった可能性を排除できていない。\n\n「もし施策をしなかったら」を想定する\n反事実（counterfactual）の考え方。コントロールグループと比較することで初めて効果が測れる。\n\n日常の実践ポイント：\n「A→Bだ」と言いたいとき、「第三変数はないか？」「逆の方向（B→A）ではないか？」を必ず自問する。',
-      visual: 'Two2MatrixDiagram',
       outro:
         '因果を確かめる軸は「介入の有無 × 結果の有無」のマトリクスで考えると分かりやすいです。施策を打たない側＝コントロール群を必ず想定して比較するのが、再現性ある効果検証の出発点になります。',
     },

diff --git a/src/philosophyLessons.ts b/src/philosophyLessons.ts
@@ -127,7 +127,6 @@ export const philosophyLessonMap: Record<number, LessonData> = {
         title: '知識の3条件 — 正当化された真の信念',
         content:
           '古典的な定義では、「知識」は次の3条件を満たす必要がある。\n\n1. 真である（True）: 実際に事実であること\n2. 信じている（Belief）: 本人が正しいと思っていること\n3. 正当化されている（Justified）: 信じる根拠がある\n\n例: 「明日は雨だ」\n- 感で思っているだけ → 正当化なし = 知識ではない\n- 天気予報で確認 → 正当化あり。ただし予報が外れれば「真」ではなかったことに\n\n**補足 — ゲティア問題（1963）:**\n哲学者エドマンド・ゲティアは、JTBの3条件を満たしながら「知識とは言えない」反例を示し、この定義が十分でないことを証明した。例：偶然正しかった推測でも3条件を満たすケースがある。現代認識論ではこの問題への応答として「第4条件」の探索が続いている。\n\nビジネスでの応用: 「知っている」と「思い込んでいる」の区別が戦略の精度を左右する。',
-        visual: 'MeceVennDiagram',
       },
       {
         type: 'quiz',

diff --git a/src/designThinkingLessons.ts b/src/designThinkingLessons.ts
@@ -147,7 +147,6 @@ const designThinkingPractice: LessonData = {
       title: 'How Might We — 創造的な問いの立て方',
       content:
         '問題定義ができたら、「How Might We（どうすれば〜できるだろうか）」の形で問いを立てます。\n\nHMW文の作り方：\n\n課題：「忙しい社会人が学習を継続できない」\n\nHMW例：\n• 「どうすれば、学習を日常のルーティンに組み込めるだろうか？」\n• 「どうすれば、3分で達成感を得られる学習体験を作れるだろうか？」\n• 「どうすれば、学習をゲーム感覚で楽しめるだろうか？」\n\nHMWのコツ：\n• 広すぎない：「どうすれば世界を良くできるか」→ \n• 狭すぎない：「どうすればボタンの色を決められるか」→ \n• ちょうど良い：解決策の方向性が3-5個出るレベル',
-      visual: 'ThreePillarsDiagram',
       outro:
         'HMW 文の威力は「広さ」の調整にあります。解決策が 3〜5 方向に分かれる粒度を目安に問いを書き直すと、ブレストの発散量が増え、面白い角度のアイデアが出てきやすくなります。',
     },

diff --git a/src/issueLessons.ts b/src/issueLessons.ts
@@ -102,7 +102,6 @@ const issueExhaustive: LessonData = {
       title: '5W1Hで視点を変える',
       content:
         '構造で切るだけでは漏れるテーマもあります。\nそんなときは5W1Hで視点を変えて、論点を粗く洗う。\n\n【Who（誰）】\n誰が動いている／動いていない？\n誰が意思決定者か／反対者か？\n\n【What（何）】\n何が起きている？何が変わった？\n\n【When（いつ）】\nいつから？季節要因か、構造変化か？\n\n【Where（どこ）】\nどの市場・どのチャネル・どの工程で起きている？\n\n【Why（なぜ）】\n表面の理由ではなく、構造の理由は？\n\n【How（どうやって）】\nどうやってその状況になった？仕組みは？\n\n5W1Hは網羅ツールというより、「自分の視野が一方向に寄っていないか」を確認するチェックリストです。',
-      visual: 'MecePatternsDiagram',
     },
     {
       type: 'quiz',

diff --git a/src/strategyLessons.ts b/src/strategyLessons.ts
@@ -64,7 +64,6 @@ export const strategyLessonMap: Record<number, LessonData> = {
         title: '4つの成長戦略',
         content:
           '① 市場浸透: 既存製品×既存市場。シェアを伸ばす最も安全な道。\n② 新製品開発: 新製品×既存市場。同じ顧客に新しいものを売る。\n③ 新市場開拓: 既存製品×新市場。海外展開や新セグメントへ。\n④ 多角化: 新製品×新市場。最もリスクが高いが、リターンも大きい。\n\n右下にいくほど「未知」が増え、必要なケイパビリティも変わる。アンゾフは「多角化はシナジーがあるかで成否が決まる」とも言った。シナジーとは「2+2=5」の効果のことだ。',
-        visual: 'Two2MatrixDiagram',
       },
       {
         type: 'quiz',
